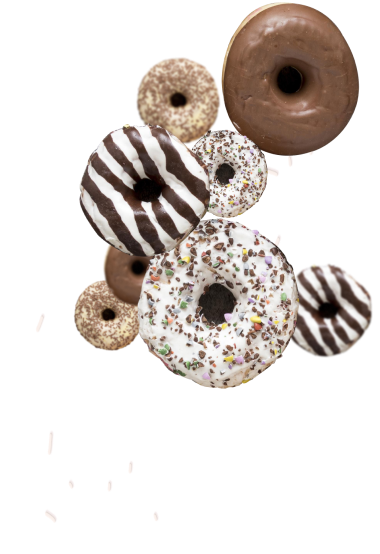
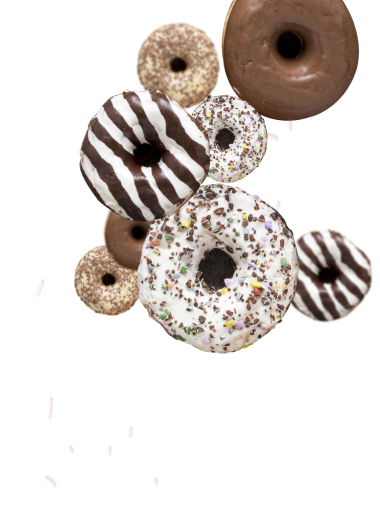
header-desc

diff --git a/src/partials/header__section.html b/src/partials/header__section.html
@@ -1,8 +1,37 @@
 <header class="header container">
-  <a class="logo header__logo">
-    <img src="./images/header/logo-mb-tb.png" alt="company logo" />
-  </a>
+  <div class="nav-wrapper">
+    <a class="logo header__logo">
+      <img src="./images/header/logo-mb-tb.png" alt="company logo" />
+    </a>
 
+    <div class="navigation">
+      <ul class="navigation-list list">
+        <li class="navigation-list__item">
+          <a class="navigation-list__link" href="#">About us</a>
+        </li>
+
+        <li class="navigation-list__item">
+          <a class="navigation-list__link" href="#">Program</a>
+        </li>
+
+        <li class="navigation-list__item">
+          <a class="navigation-list__link" href="#">Speakers</a>
+        </li>
+
+        <li class="navigation-list__item">
+          <a class="navigation-list__link" href="#">Price</a>
+        </li>
+
+        <li class="navigation-list__item">
+          <a class="navigation-list__link" href="#">Reviews</a>
+        </li>
+
+        <li class="navigation-list__item">
+          <a class="navigation-list__link" href="#">Contacts</a>
+        </li>
+      </ul>
+    </div>
+  </div>
   <h1 class="header__title title">
     Donut Masterclass with the Donut King
   </h1>
@@ -97,72 +126,72 @@
   <div class="img-wrap">
     <picture>
       <source
-        media="(min-width: $breakpoint-desk)"
-        srcset="./images/header/h-donuts-mb-test.png 1x"
-        type="image/jpg"
+        media="(min-width: 1280px)"
+        srcset="
+          ./images/header/h-donuts-dc-test.png   1x,
+          ./images/header/h-donuts-dc-test2x.png 2x
+        "
+        type="image/png"
       />
 
       <source
-        media="(min-width: $breakpoint-tab)"
-        srcset="./images/header/h-donuts-tb-test.png 1x"
-        type="image/jpg"
+        media="(min-width: 768px)"
+        srcset="
+          ./images/header/h-donuts-tb-test.png   1x,
+          ./images/header/h-donuts-tb-test2x.png 2x
+        "
+        type="image/png"
       />
 
       <source
         media="(max-width: 767px)"
-        srcset="./images/header/h-donuts-tb-test.png 1x"
-        type="image/jpg"
+        srcset="
+          ./images/header/h-donuts-mb-test.png   1x,
+          ./images/header/h-donuts-mb-test2x.png 2x
+        "
+        type="image/png"
       />
-
       <img
         class="header__donuts"
+        src="./images/header/h-donuts-mb-test.png"
         width="130"
         height="165"
-        src="./images/header/h-donuts-mb-test.png"
       />
     </picture>
-
-    <!-- <img
-      class="header__donuts"
-      width="130"
-      height="165"
-      src="./images/header/h-donuts-mb-test.png"
-    /> -->
   </div>
 
-  <img
-    class="header__bg"
-    width="130"
-    height="165"
-    src="./images/background/bg-header-tb.png"
-  />
+  <picture>
+    <source
+      media="(min-width: 1280px)"
+      srcset="
+        ./images/background/bg-header-dc.png   1x,
+        ./images/background/bg-header-dc2x.png 2x
+      "
+      type="image/png"
+    />
+
+    <source
+      media="(min-width: 768px)"
+      srcset="
+        ./images/background/bg-header-tb.png   1x,
+        ./images/background/bg-header-tb2x.png 2x
+      "
+      type="image/png"
+    />
+
+    <source
+      media="(max-width: 767px)"
+      srcset="
+        ./images/background/bg-header-mb.png   1x,
+        ./images/background/bg-header-mb2x.png 2x
+      "
+      type="image/png"
+    />
+    <img
+      class="header__bg"
+      src="  ./images/background/bg-header-mb.png "
+      width="130"
+      height="165"
+    />
+  </picture>
 </header>
-
-<!-- <picture>
-  <source
-    media="(min-width: $breakpoint-desk)"
-    srcset="./images/header/h-donuts-mb-test.png 1x"
-    type="image/jpg"
-  />
-
-  <source
-    media="(min-width: $breakpoint-tab)"
-    srcset="./images/header/h-donuts-tb-test.png 1x"
-    type="image/jpg"
-  />
-
-  <source
-    media="(max-width: 767px)"
-    srcset="./images/header/h-donuts-tb-test.png 1x"
-    type="image/jpg"
-  />
-
-  <img
-    class="header__donuts"
-    width="130"
-    height="165"
-    src="./images/header/h-donuts-mb-test.png"
-  />
-</picture> -->
-
-<!-- class="header__donuts" -->

diff --git a/src/sass/layouts/header__styles.scss b/src/sass/layouts/header__styles.scss
@@ -6,7 +6,31 @@
   }
 
   @media screen and (min-width: $breakpoint-desk) {
+    padding-top: 46px;
   }
+}
+
+.nav-wrapper {
+  display: flex;
+}
+
+.navigation {
+  display: none;
+  @media screen and (min-width: $breakpoint-desk) {
+    display: block;
+    &-list {
+      display: flex;
+      gap: 20px;
+    }
+  }
+}
+
+.navigation-list__link {
+  @include font(400, 18, 22, none);
+  text-align: center;
+  color: currentColor;
+  padding-top: 14px;
+  padding-bottom: 14px;
 }
 
 .logo {
@@ -18,11 +42,17 @@
 .header__logo {
   max-width: 96px;
   margin-bottom: 16px;
+
   @media screen and (min-width: $breakpoint-tab) {
     margin-left: 0;
     margin-bottom: 24px;
   }
+
+  @media screen and (min-width: $breakpoint-desk) {
+    margin-right: 55px;
+  }
 }
+
 .header__social-list {
   @media screen and (min-width: $breakpoint-tab) {
     justify-content: flex-start;
@@ -58,6 +88,9 @@
     margin-bottom: 20px;
     margin-left: 0;
   }
+  @media screen and (min-width: $breakpoint-desk) {
+    margin-bottom: 32px;
+  }
 }
 
 .header__bg {
@@ -71,36 +104,51 @@
   @media screen and (min-width: $breakpoint-tab) {
     height: 622px;
   }
-}
-
-.header__donuts {
-  outline: 1px solid red;
-  position: absolute;
-  left: -12px;
-  top: -51px;
-  z-index: -1;
-  @media screen and (min-width: $breakpoint-tab) {
-    width: 378px;
-    height: (554 - 158) px;
-    top: -35px;
+  @media screen and (min-width: $breakpoint-desk) {
+    height: 1036;
   }
 }
 
+.header__donuts {
+  // outline: 1px solid red;
+
+  position: absolute;
+  width: 100%;
+  height: 100%;
+  z-index: -1;
+}
+
 .img-wrap {
-  outline: 1px solid red;
+  // outline: 1px solid red;
 
   position: absolute;
   overflow: hidden;
   top: 0;
-  left: 0;
-  width: 130px;
-  height: 165px;
   z-index: -1;
 
-  @media screen and (min-width: $breakpoint-tab) {
+  @media screen and (max-width: 767.98px) {
+    left: 0;
+    // width: 130px;
+    // height: 165px;
+    width: 118px;
+    height: 114px;
+  }
+
+  @media screen and (min-width: $breakpoint-tab) and (max-width: 1279.98px) {
+    // height: 554px;
+    // width: 378px;
+
+    height: 519px;
     width: 378px;
-    height: 554px;
     left: 289px;
+  }
+
+  @media screen and (min-width: $breakpoint-desk) {
+    // width: 793px;
+    // height: 1116px;
+    width: 716px;
+    height: 946px;
     top: 0;
+    right: 0;
   }
 }

diff --git a/src/sass/component-styles/header-menu__styles.scss b/src/sass/component-styles/header-menu__styles.scss
@@ -24,10 +24,14 @@
 
   width: 100%;
   height: 100%;
+  @media screen and (min-width: $breakpoint-desk) {
+    display: none;
+  }
 }
 
 .menu {
   display: none;
+  position: absolute;
 }
 
 .menu.is-open {

diff --git a/src/sass/base/_utilities.scss b/src/sass/base/_utilities.scss
@@ -51,6 +51,8 @@
 
   @media screen and (min-width: $breakpoint-desk) {
     max-width: $breakpoint-desk;
+    padding-right: 16px;
+    padding-left: 16px;
   }
 }
 
